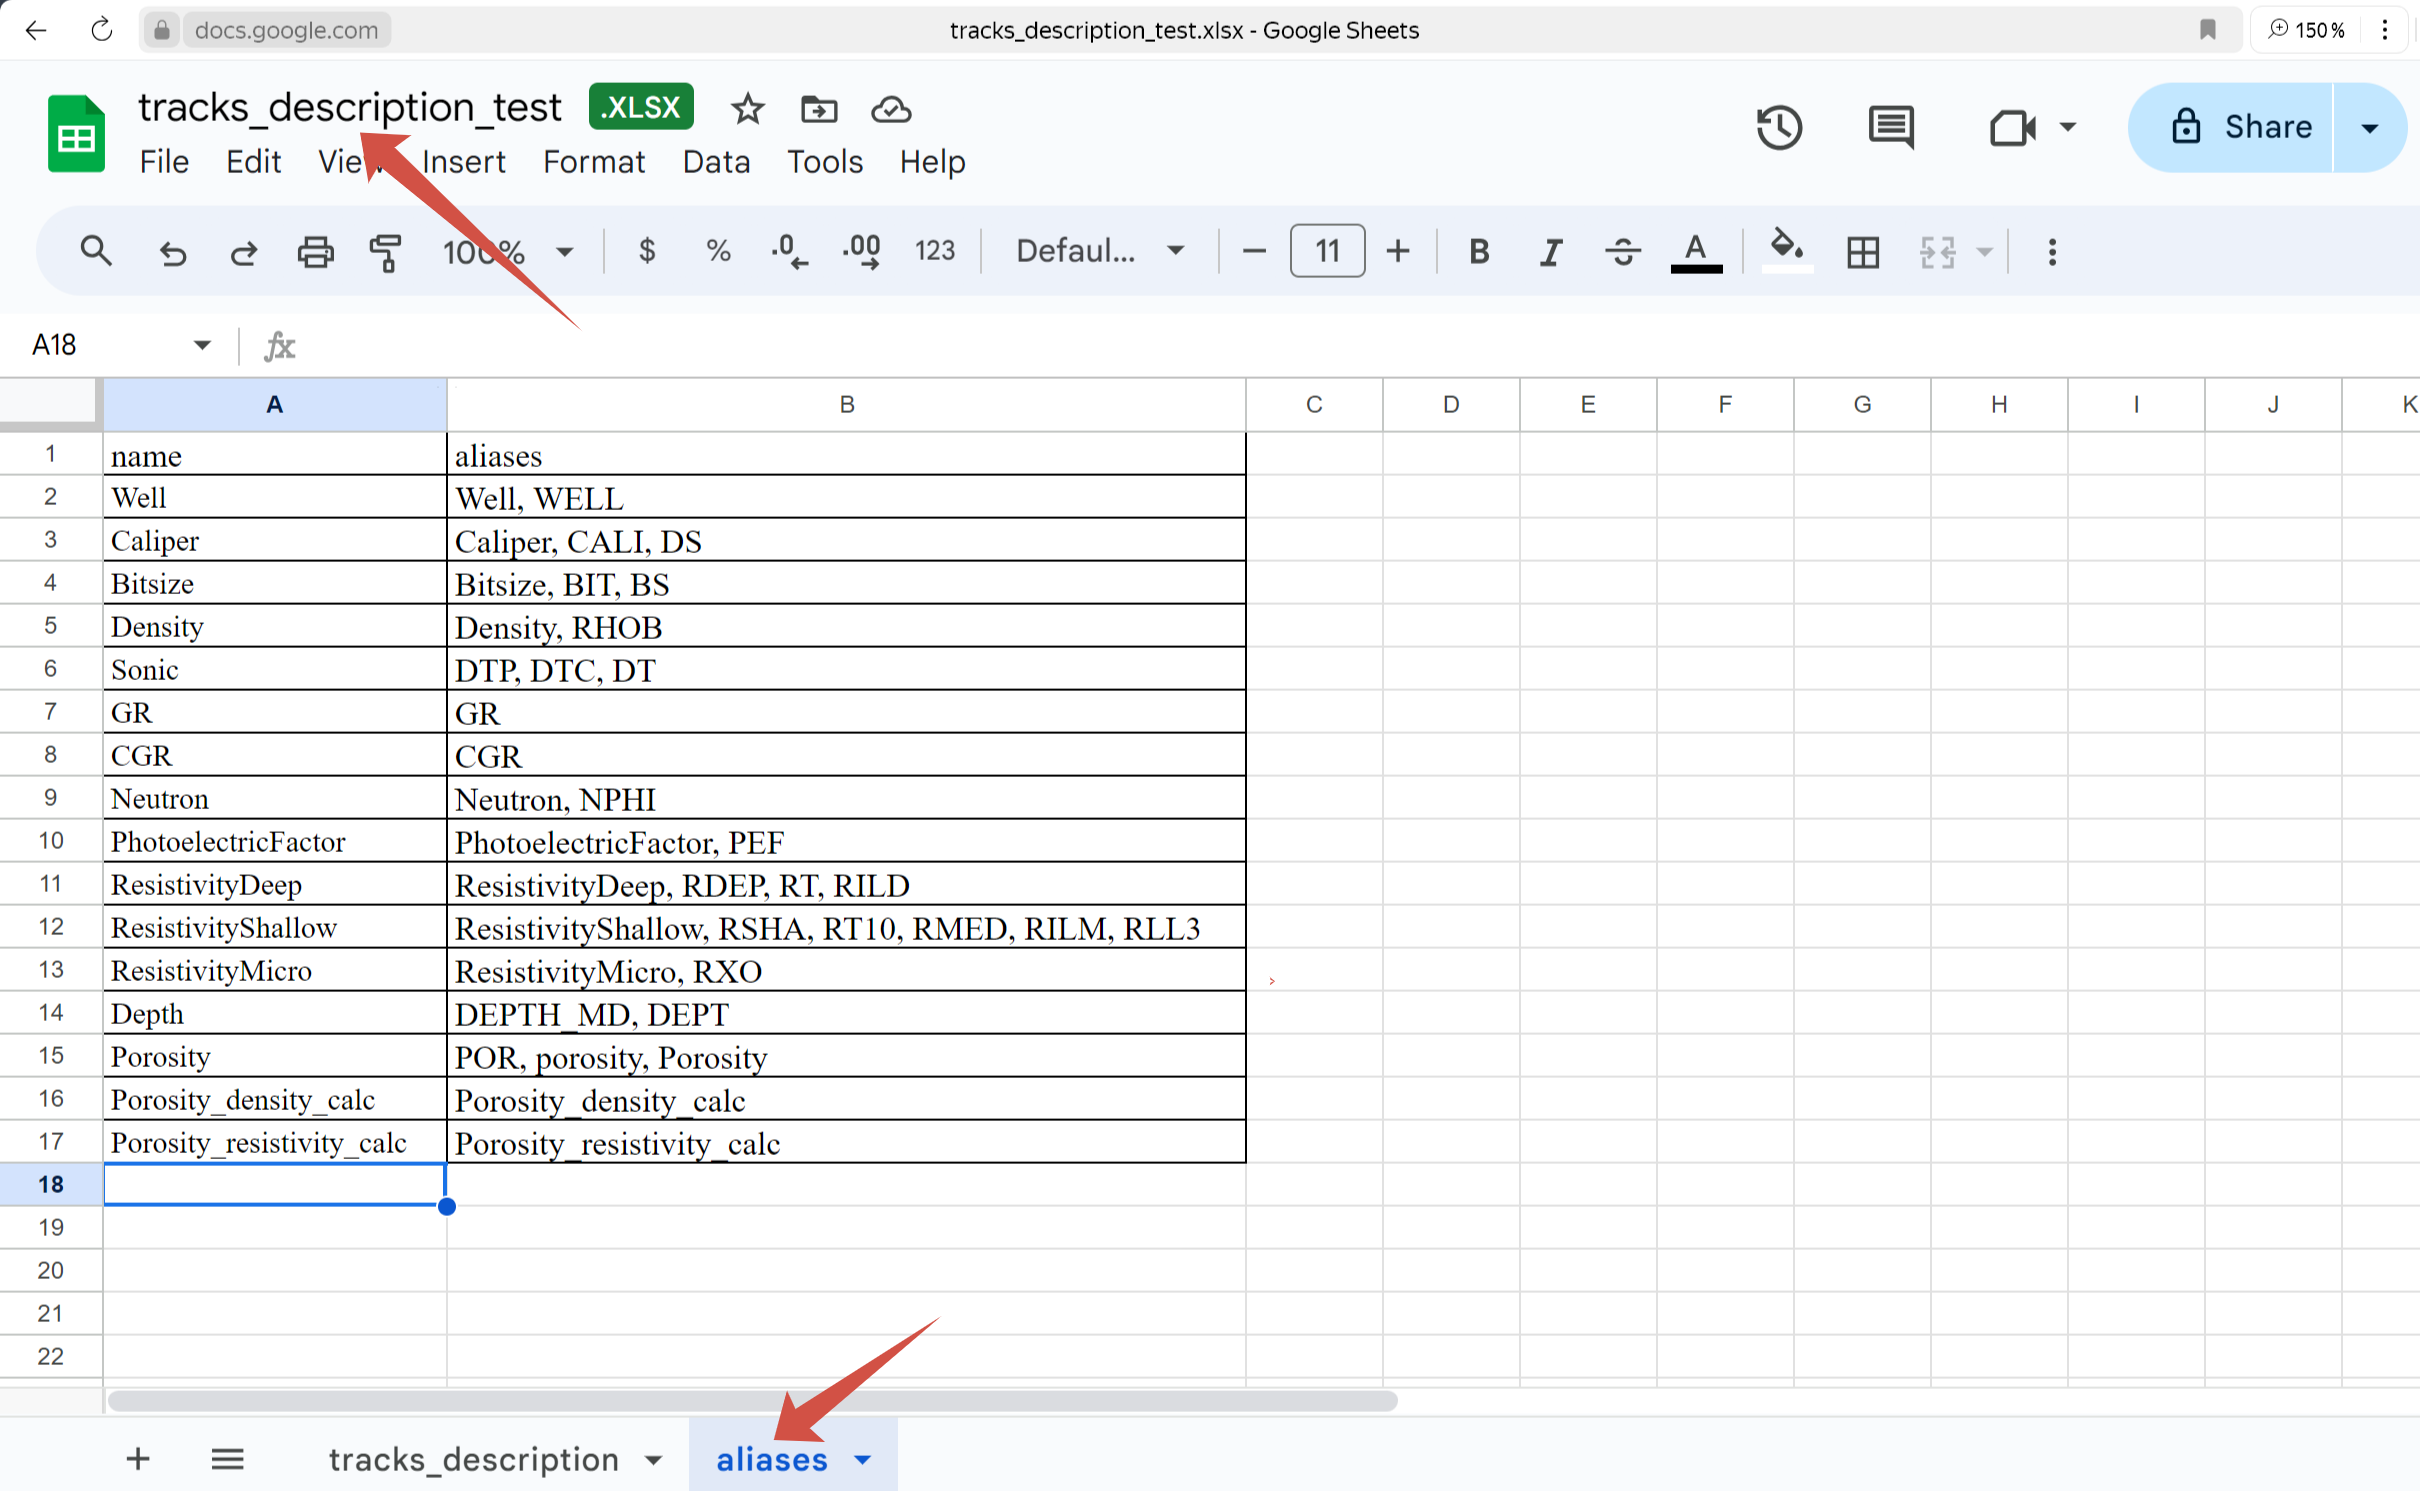
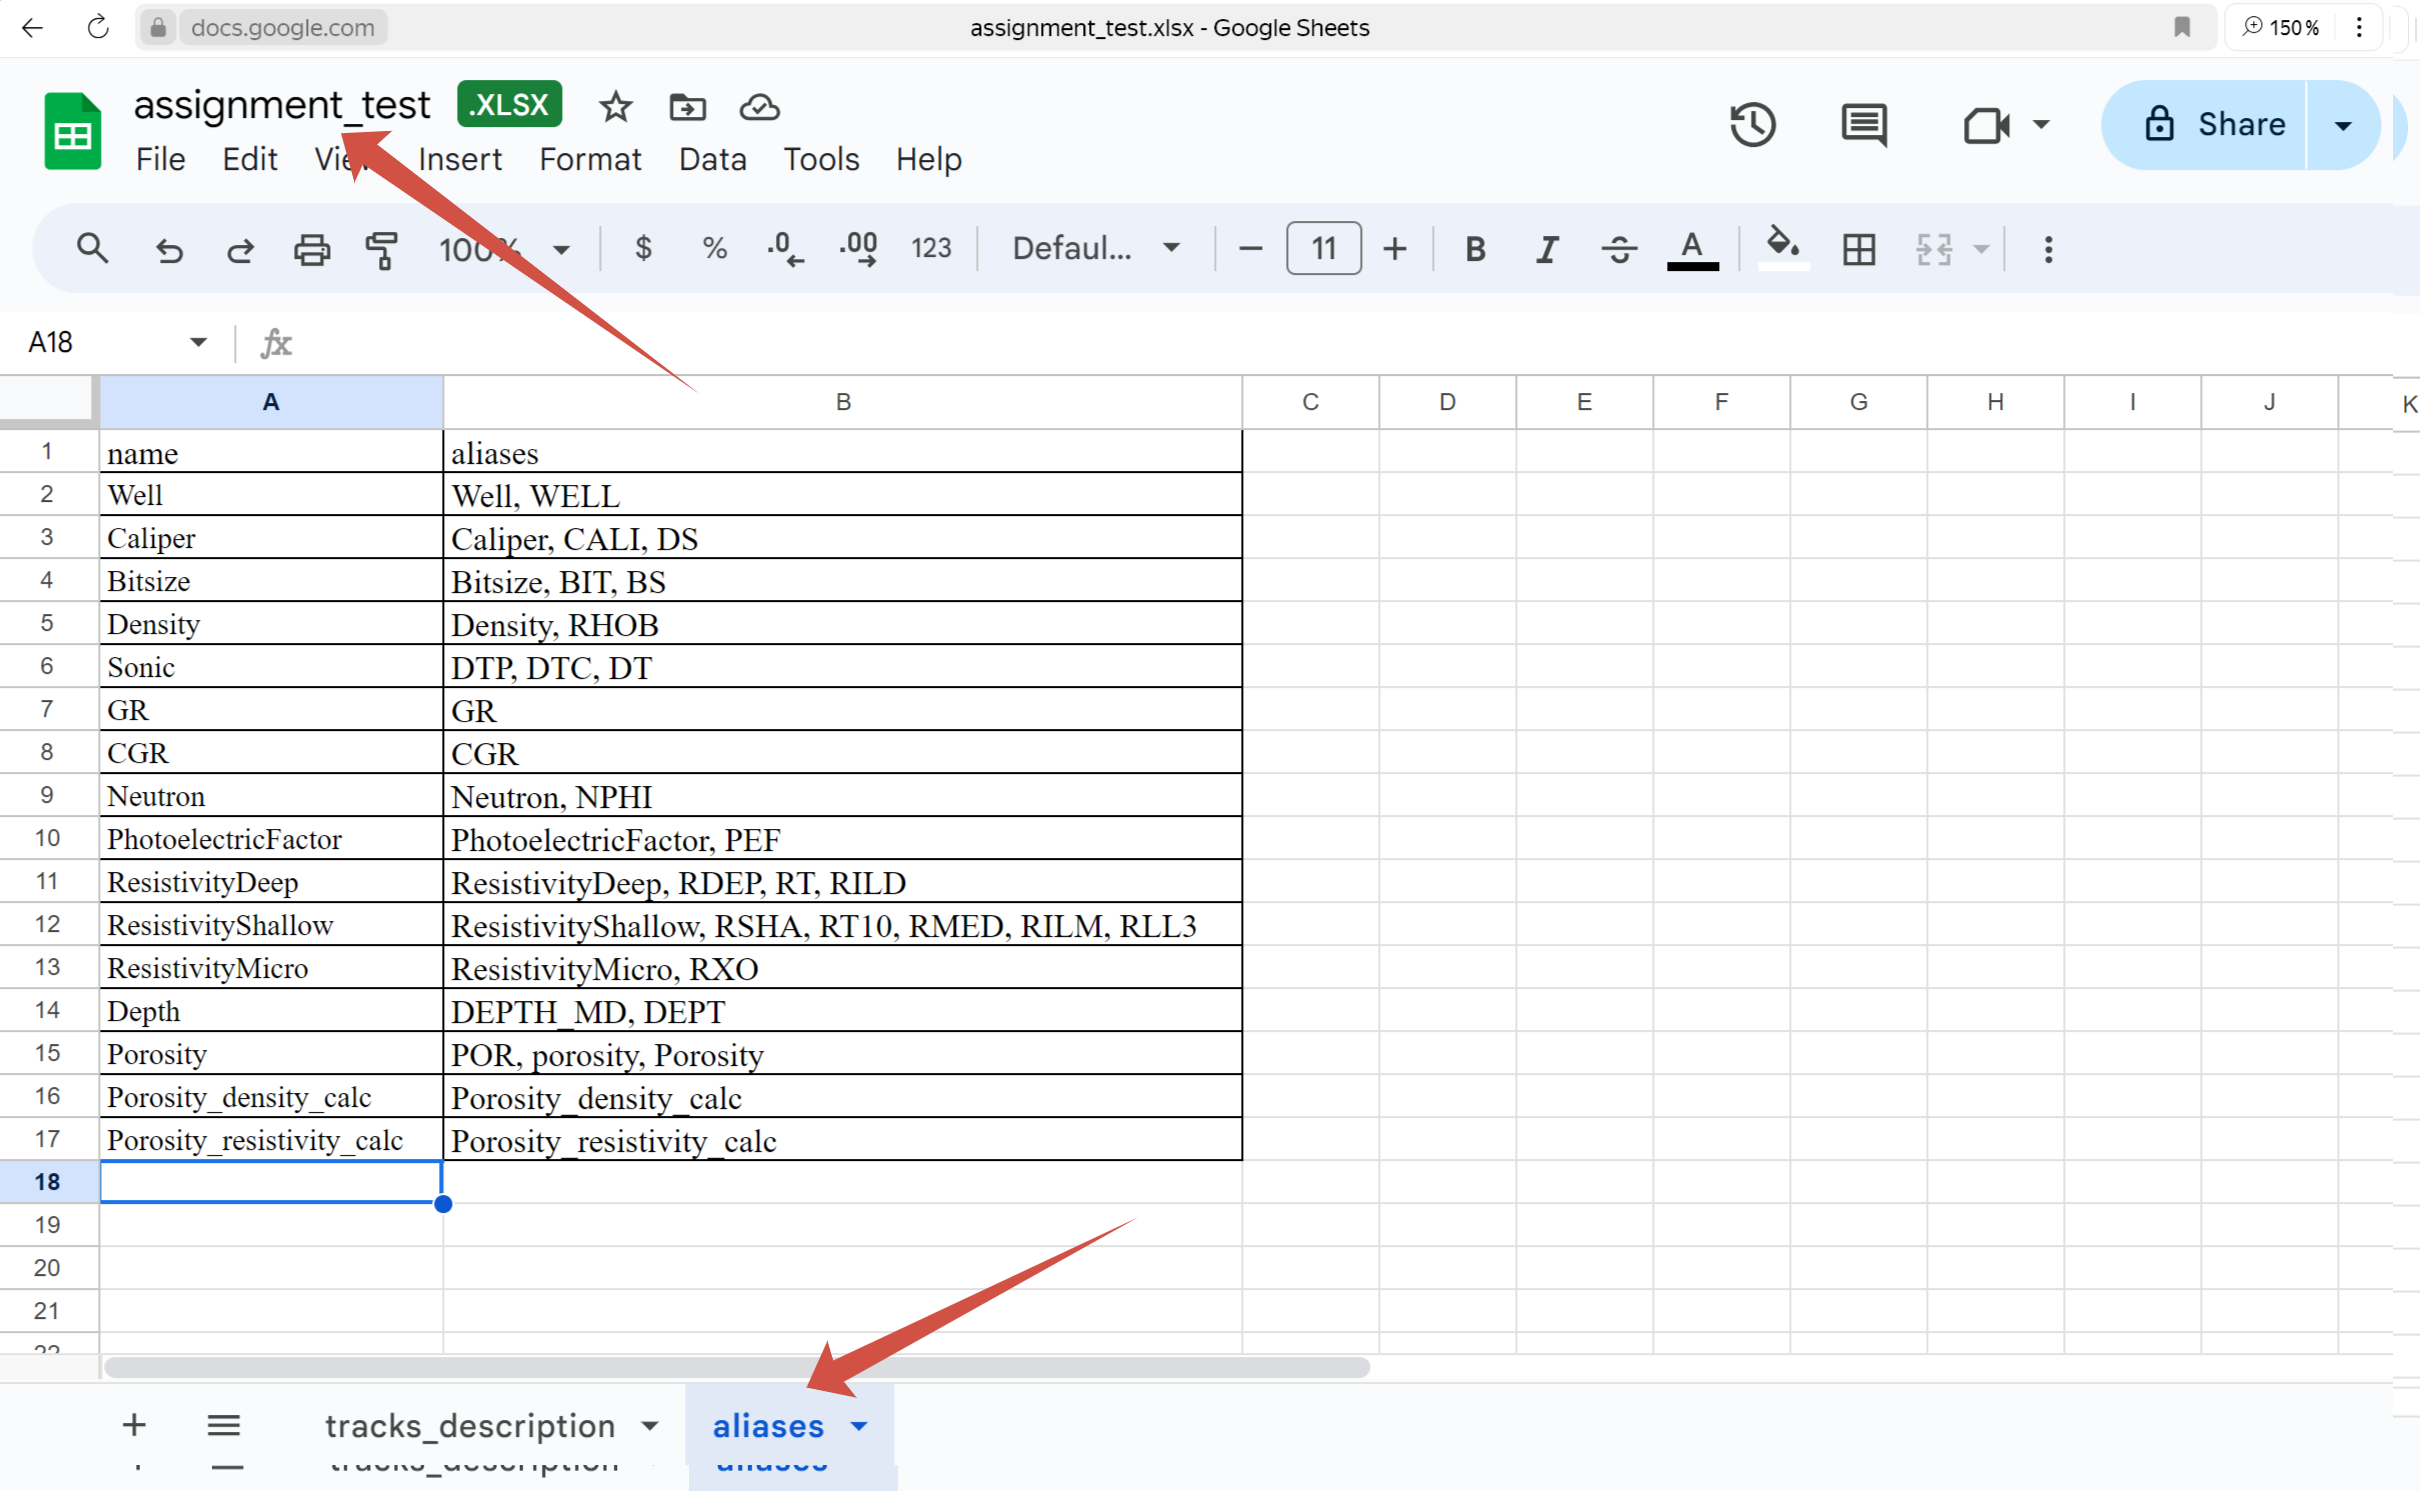
-Continue to write documentation

diff --git a/src/JupyterToolsPyScientist/petrophysical_layout.py b/src/JupyterToolsPyScientist/petrophysical_layout.py
@@ -12,16 +12,22 @@ from .calculator import Calculator
 
 
 class PetrophysicalLayout:
-    """This class serves as a base object for layout.
+    """Class serves as a base object for layout.
     :param df: pandas dataframe with dataset from single las file.
-    :param tracks_description_file_path: (optional) To instantiate this class a tracklist has to be provided.
+    :param assignment_file_path: (optional) path to assignment file with tracks description.
     It can be provided from internal source "None" or can be defined with use Excel, in that case path to excel has
     to be provided to input.
-    :param depth_range: (optional) Depth range can be specified in form of (min, max) or if "None" is specified then use min and
-    max depths in dataset to determine limits of plotting.
+    :param depth_range: (optional) Depth range can be specified in form of tuple (min, max)
+     or if "None" is specified then use min and max depth curve in dataset to determine limits of plotting.
+    :param mode: (optional) By the default mode is 'passive' in this mode figure can be plotted inside jupyter, another
+    option to set it 'active' so it can be used from command line to plot the figure.
     """
 
-    def __init__(self, df, tracks_description_file_path=None, depth_range=None, mode='passive'):
+    def __init__(self,
+                 df: pd.DataFrame,
+                 assignment_file_path: Union['str', None] = None,
+                 depth_range: Union[tuple, None] = None,
+                 mode: str = 'passive'):
 
         # Get screen dimensions
         dpi = 100
@@ -30,10 +36,10 @@ class PetrophysicalLayout:
         self.df = df
         self.depth_range = depth_range
 
-        if tracks_description_file_path is None:
+        if assignment_file_path is None:
             self.tracks_description = load_tracks_description()
         else:
-            self.tracks_description = load_tracks_description(tracks_description_file_path)
+            self.tracks_description = load_tracks_description(assignment_file_path)
 
         if self.check_integrity_of_data():
             self.fig, self.ax = plt.subplots(1, len(self.tracks_description),
@@ -204,8 +210,13 @@ class PetrophysicalTrack:
             return round(value, 3)
 
 
-def create_single_well_df(las_path, mnem_dict_path=None):
-    las = lasio.read(las_path)
+def create_single_well_df(las_file_path: str, assignment_file_path: Union[str, None] = None):
+    """Creation of DataFrame from las file
+    :params las_file_path: Path to las file from which we are going to prepare composite df
+    :params assignment_file_path: Path to assignment Excel file with TAB "aliases". If file isn't specified
+    than the program takes default one. The example of default file provided on the figure above.
+    """
+    las = lasio.read(las_file_path)
     las_df = las.df()
     if 'UWI' in las.well:
         las_df['Well'] = las.well['UWI'].value
@@ -215,27 +226,11 @@ def create_single_well_df(las_path, mnem_dict_path=None):
         las_df['Well'] = 'unknown'
     las_df[las_df.index.name] = las_df.index
     las_df.reset_index(drop=True, inplace=True)
-    las_df = dataframe_preprocessor(las_df, mnem_dict_path=mnem_dict_path)
-    return las_df
+    return dataframe_preprocessor(las_df, assignment_file_path=assignment_file_path)
 
 
-def make_processing_well_logging(df: pd.DataFrame) -> None:
-    """Function which perform calculating of porosity, sw, vss, etc ...
-    can be applied before plotting of layout"""
-    matrix_density = 2.71
-    fluid_density = 1
-    a = 1
-    m = 2
-    rw = 0.6
-    if 'Density' in df.columns:
-        df['Porosity_density_calc'] = df.apply(Calculator.porosity_density,
-                                               axis=1, args=(matrix_density, fluid_density, 'Density',))
-    if 'ResistivityDeep' in df.columns:
-        df['Porosity_resistivity_calc'] = df.apply(Calculator.porosity_resistivity,
-                                                   axis=1, args=(a, m, rw, 'ResistivityDeep',))
-
-
-def dataframe_preprocessor(input_df: pd.DataFrame, mnem_dict_path: Union[None, str] = None) -> pd.DataFrame:
+def dataframe_preprocessor(input_df: pd.DataFrame,
+                           assignment_file_path: Union[None, str] = None) -> pd.DataFrame:
     """Function get df on input and looking into aliases table create set with universal names"""
 
     def gather_data_for_several_aliases(row, aliases_input):
@@ -243,10 +238,10 @@ def dataframe_preprocessor(input_df: pd.DataFrame, mnem_dict_path: Union[None, s
             if not pd.isna(row[alias]):
                 return row[alias]
 
-    if mnem_dict_path is None:
+    if assignment_file_path is None:
         mnem_dict = load_mnemonic_aliases_correspond()
     else:
-        mnem_dict = load_mnemonic_aliases_correspond(mnem_dict_path)
+        mnem_dict = load_mnemonic_aliases_correspond(assignment_file_path)
 
     output_df = input_df.copy()
 
@@ -266,3 +261,21 @@ def dataframe_preprocessor(input_df: pd.DataFrame, mnem_dict_path: Union[None, s
     output_df.drop(columns_to_remove, axis=1, inplace=True)
 
     return output_df
+
+
+def make_processing_well_logging(df: pd.DataFrame) -> None:
+    """Function which perform calculating of porosity, sw, vsh, etc ...
+    can be applied to DataFrame before plotting of layout
+    :param df: DataFrame for which processing will be applied.
+    """
+    matrix_density = 2.71
+    fluid_density = 1
+    a = 1
+    m = 2
+    rw = 0.6
+    if 'Density' in df.columns:
+        df['Porosity_density_calc'] = df.apply(Calculator.porosity_density,
+                                               axis=1, args=(matrix_density, fluid_density, 'Density',))
+    if 'ResistivityDeep' in df.columns:
+        df['Porosity_resistivity_calc'] = df.apply(Calculator.porosity_resistivity,
+                                                   axis=1, args=(a, m, rw, 'ResistivityDeep',))

diff --git a/tests/JupyterToolsPyScientist/test_jupyter_tools.py b/tests/JupyterToolsPyScientist/test_jupyter_tools.py
@@ -62,7 +62,7 @@ class PlottingTestCase(unittest.TestCase):
     def test_create_layout_kansas_with_depth_range_and_track_description_active_mode(self):
         make_processing_well_logging(self.test_df_kansas)
         kansas_layout = PetrophysicalLayout(self.test_df_kansas,
-                                            tracks_description_file_path=self.assignment_test_path,
+                                            assignment_file_path=self.assignment_test_path,
                                             depth_range=(1000, 5700),
                                             mode='active')
 

diff --git a/README.md b/README.md
@@ -12,14 +12,47 @@ Currently implemented two main modules:
 <h3>"petrophysical_layout" module</h3>
 
 Main class of module is "PetrophysicalLayout" which provides
-easy to use methods to plot well-logging data from las, based on matplotlib package.
+easy to use methods to plot well-logging data from las. Plotting is based on matplotlib package.
 
 Function "create_single_well_df" of module dedicated for transformation of las file
-into DataFrame with standardised curve names. For data transformation can be used
+into DataFrame with standardised curve names. For transparent procedure of the data transformation is used
+assignment file with correspondence names need to be used in dataframe and aliases in lasfile.
 
 ![Alt text](docs/example_of_aliases.png?raw=true "Title")
 
+df = create_single_well_df(las_file_path, assignment_file_path)
+
+where:
+
+las_file_path: str - path to las file from which we are going to prepare composite df.
+
+assignment_file_path: str [Optional] - Path to assignment Excel file with TAB "aliases". If file isn't specified
+than the program takes default one. The example of default file provided on the figure above.
+
+After the creation of composite df it can be applied its processing to calculate porosity, water saturation,
+vsh, and other parameters. This available by function "make_processing_well_logging".
+
+make_processing_well_logging(df)
+
+where:
+
+df: pd.DataFrame - is DataFrame for which processing will be applied.
 
 
+![Alt text](docs/example_of_aliases.png?raw=true "Title")
 
+After creation of composite DataFrame and following it processing (if it needs) can be created the instance of "PetrophysicalLayout" for which can be defined the depth range, assignment file path with description how to compose tracks in layout and mode in which the layout will be created.
+The "active" mode is appropriate while we are going to work from console, then 'passive' mode, which we got as default value can be used to plot layout inside jupyter notebook.
 
+PetrophysicalLayout(df,
+                    assignment_file_path=self.assignment_test_path,
+                    depth_range=(1000, 5700),
+                    mode='active')
+
+where:
+
+assignment_file_path: str [Optional] - Path to assignment Excel file with TAB "aliases". If file isn't specified than the program takes default one. The example of default file provided on the figure above. 
+
+depth_range: tuple [Optional] - Depth range can be specified in form of tuple (min, max) or if "None" is specified by the default, then use min and max depth curve in dataset to determine limits of plotting.
+
+mode: str [Optional] - By the default mode is 'passive' in this mode figure can be plotted inside jupyter, another option to set it 'active' so it can be used from command line to plot the figure.
